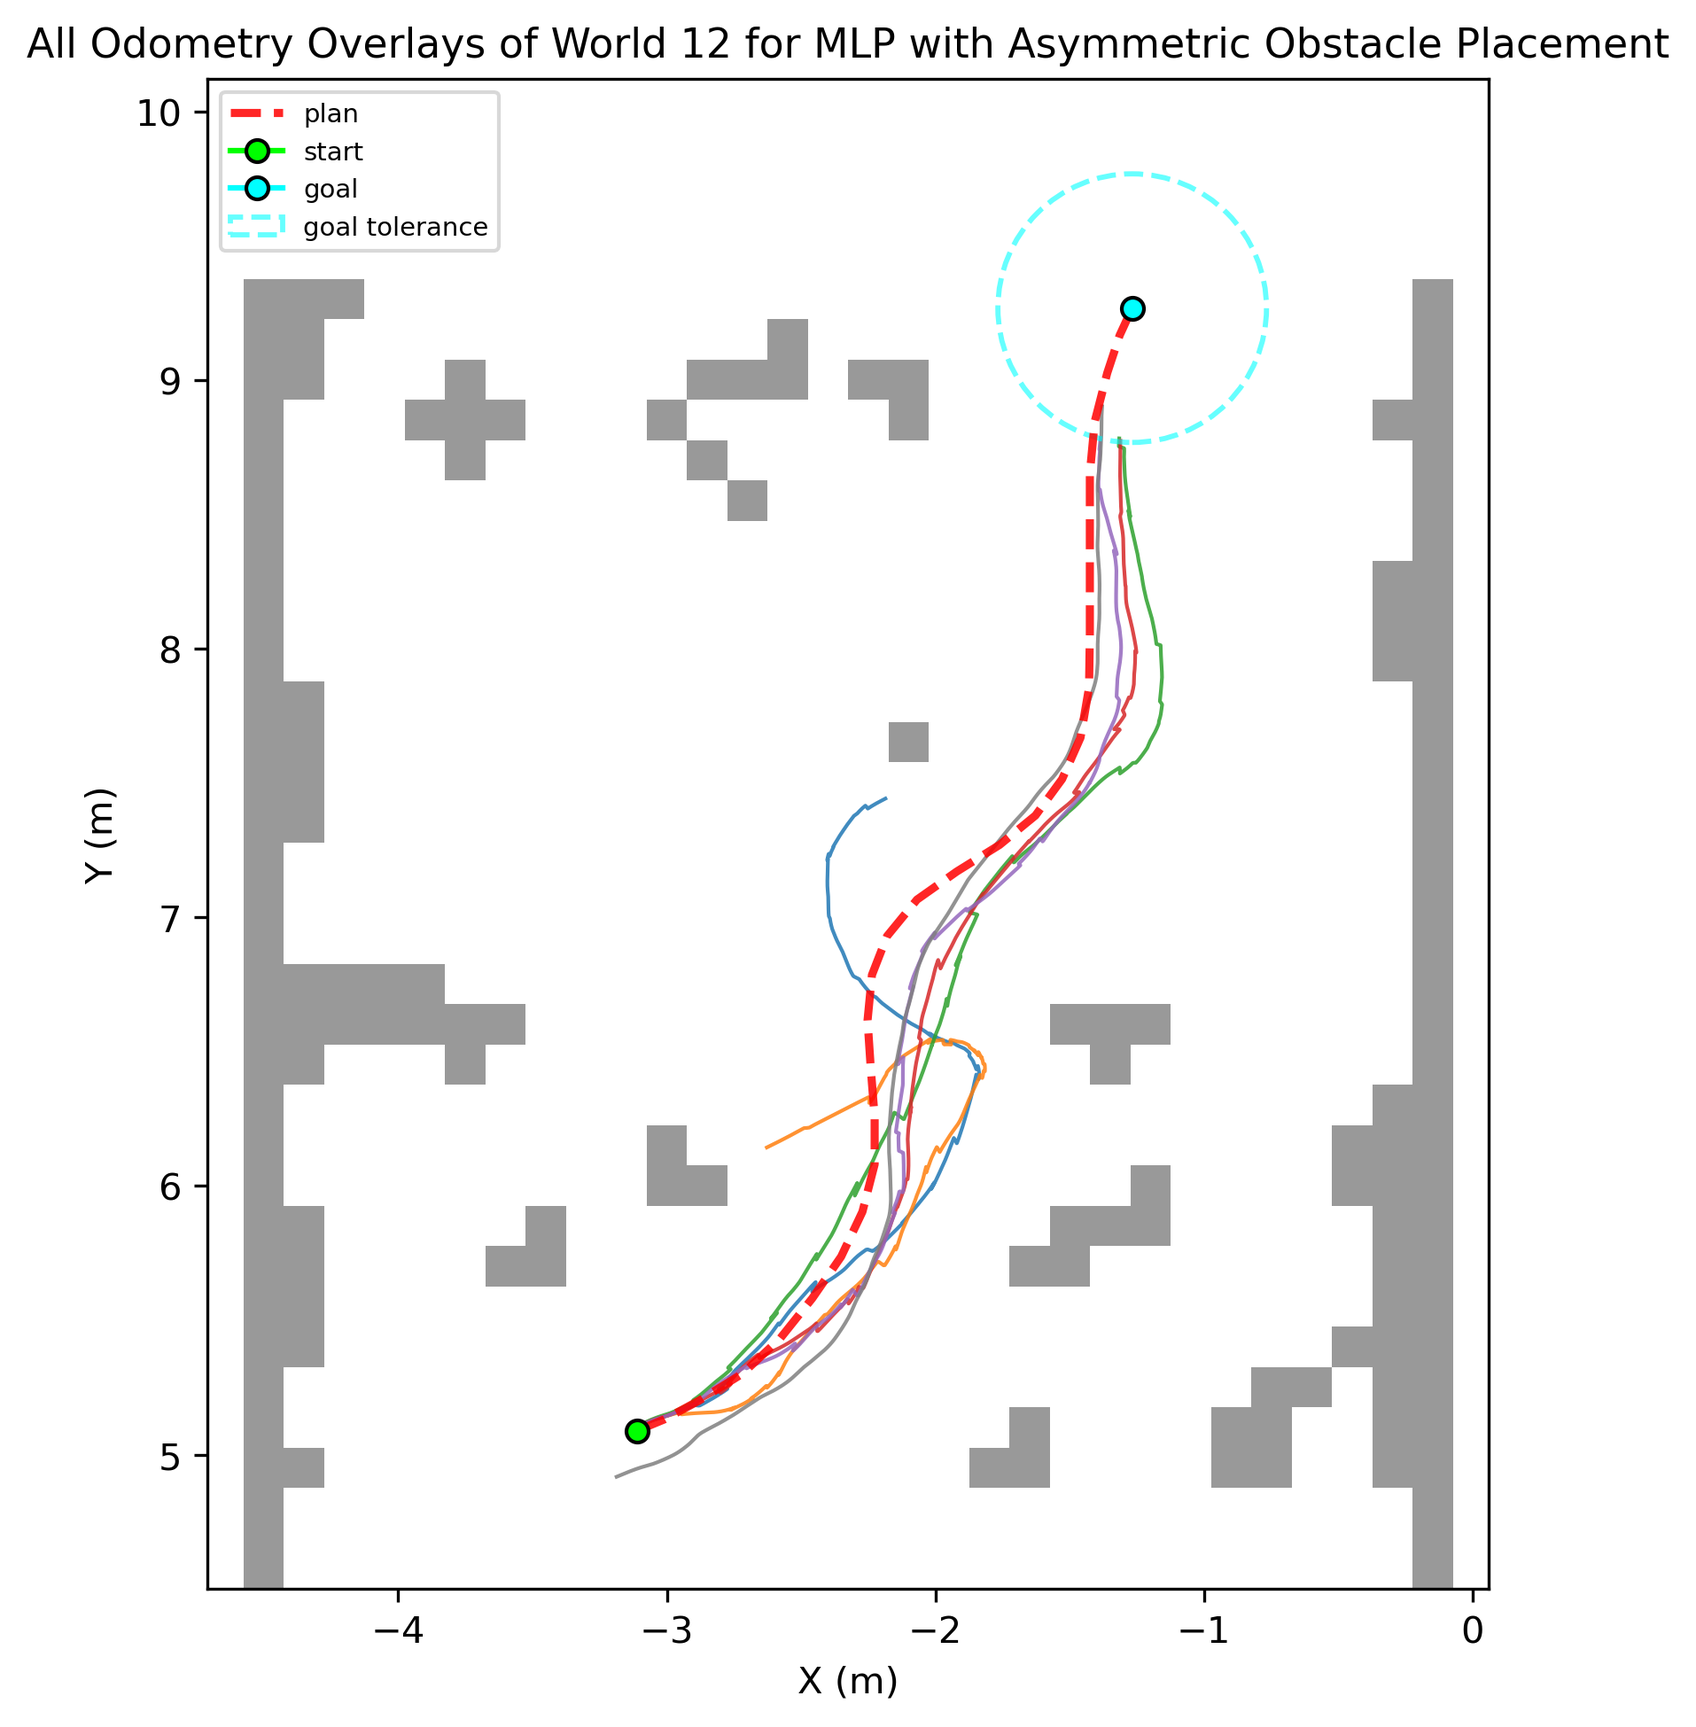
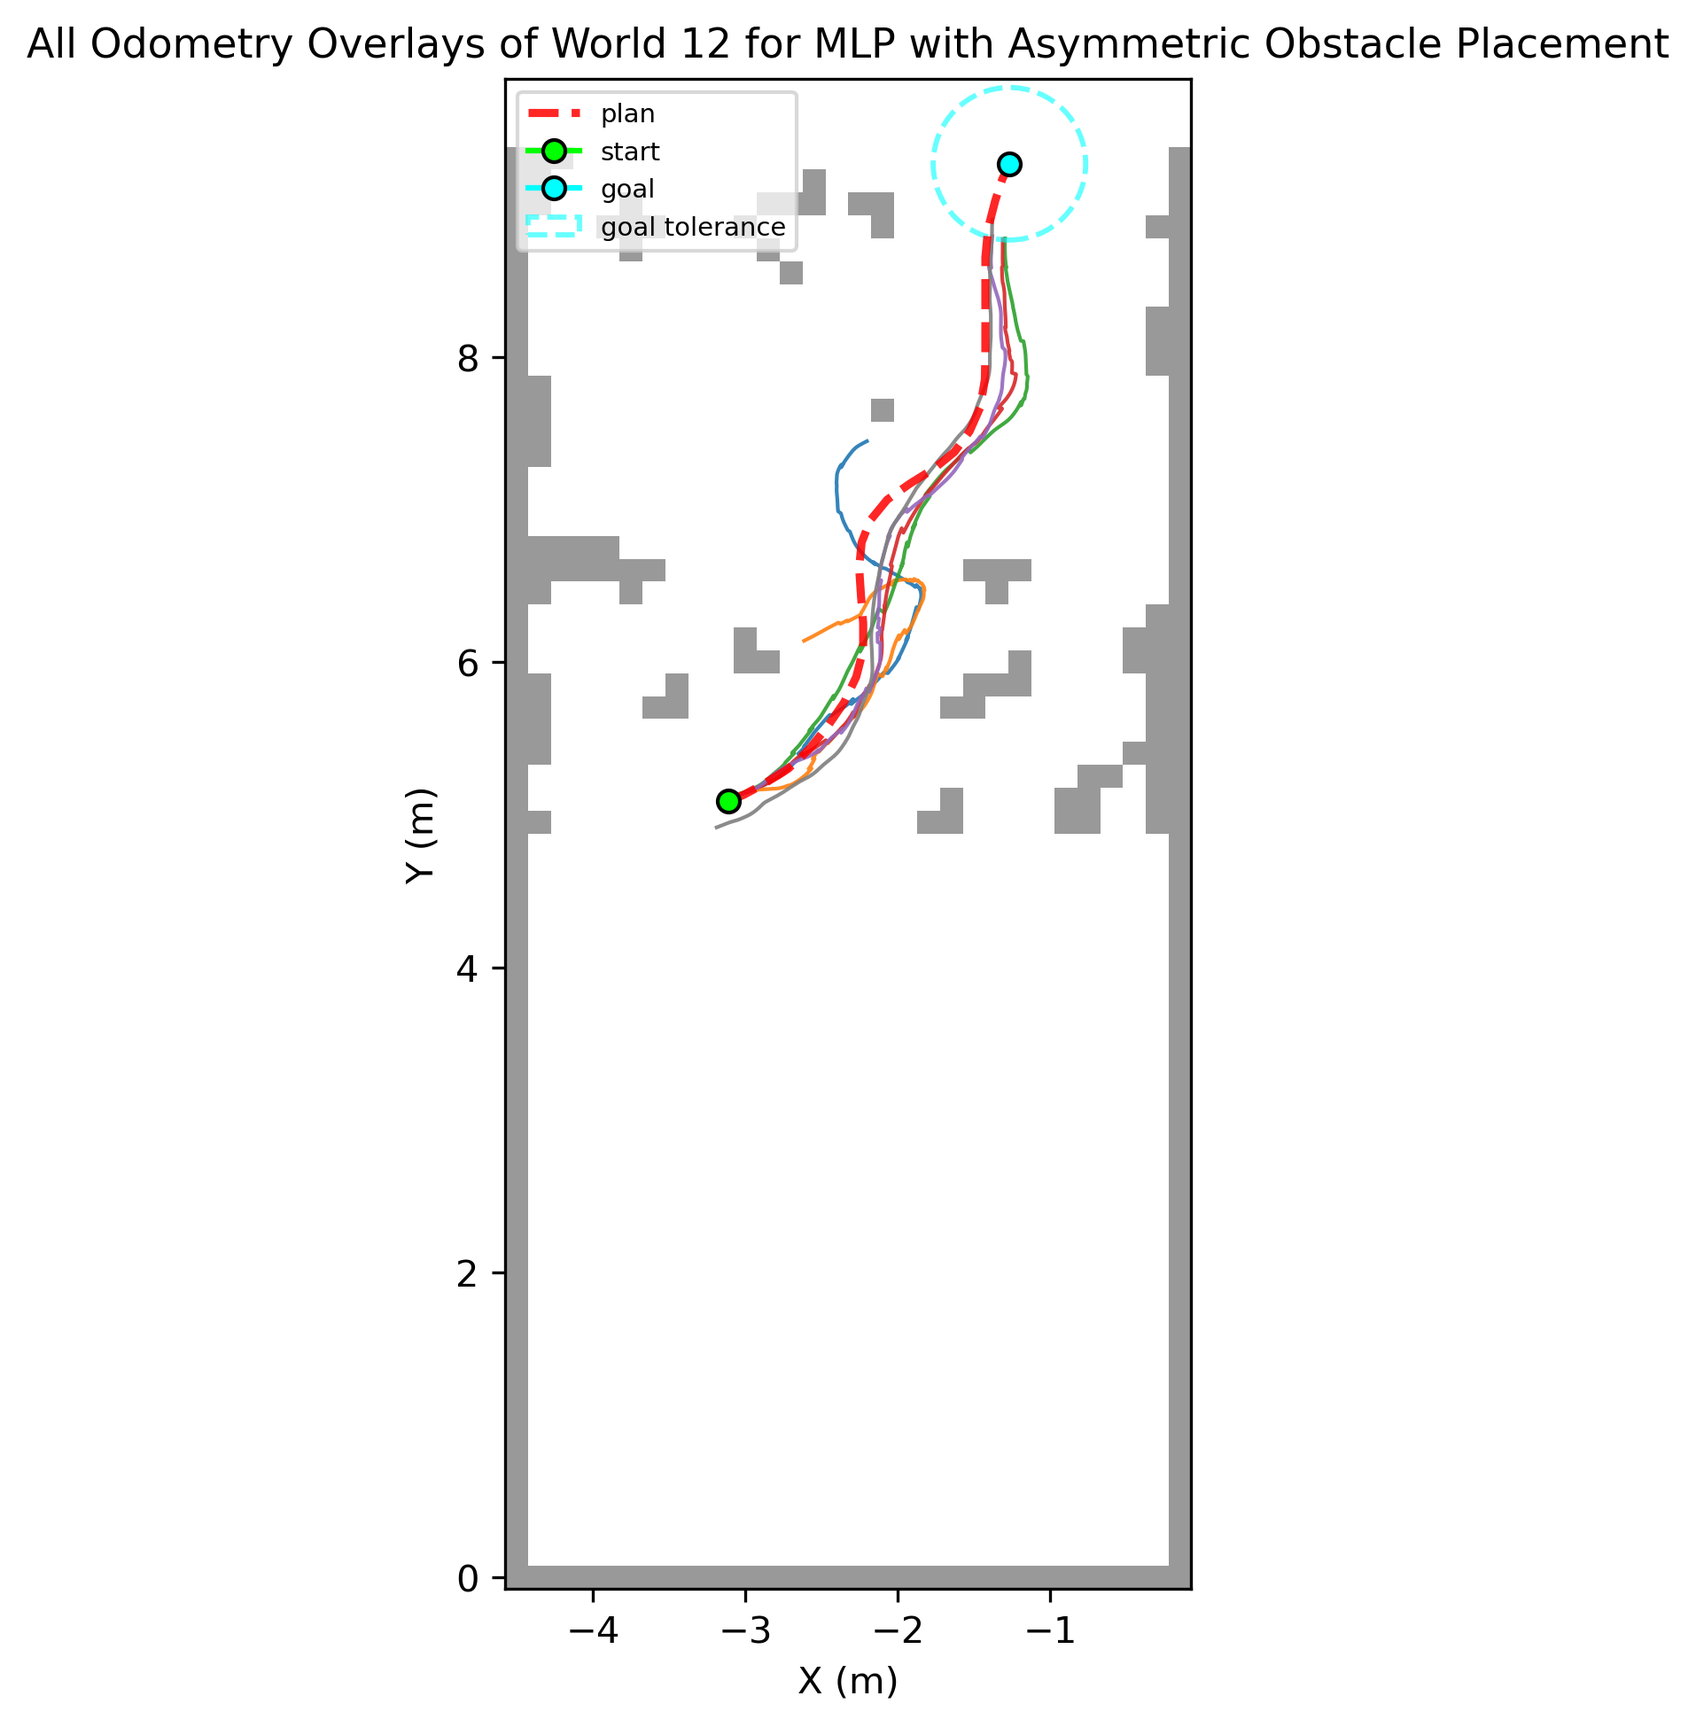
best plotting so far

diff --git a/plot_bag_overlay.py b/plot_bag_overlay.py
@@ -2,10 +2,24 @@
 #!/usr/bin/env python3
 # -*- coding: utf-8 -*-
 """
-Overlay trajectories from multiple rosbag2 runs.
-- Learn one constant map->odom TF per run (median), but prefer per-bag TF when available.
-- Choose one reference plan once (tries /plan_barn_odom, then /plan_barn).
-- Plot odom overlays + reference plan over the occupancy map (YAML->PGM).
+Overlay trajectories from multiple rosbag2 runs on a map, with robust TF handling.
+
+Key fixes vs. the original:
+- Uses *header* timestamps for /odom and TF (not the bag read time).
+- Interpolates yaw safely by unwrapping angles before interpolation.
+- Optional constant (median) map->odom TF per run for the smoothest overlays.
+
+CLI:
+  --bags <glob/dir>         : rosbag2 directories (with metadata.yaml)
+  --recursive               : discover nested bag dirs
+  --odom /odom              : odometry topic
+  --plan /plan_barn_odom    : reference plan topic (tries /plan_barn as fallback)
+  --map <map.yaml>          : map_server YAML to render
+  --tf-mode {auto,dynamic,constant}
+                             auto: prefer dynamic per-bag TF, fallback to constant
+                             dynamic: always use time-varying TF
+                             constant: always use one median map->odom TF
+  --downsample N            : sample every Nth odom message
 """
 
 import argparse, glob, math, os
@@ -30,7 +44,7 @@ from tf2_msgs.msg import TFMessage
 class Series:
     xs: List[float]
     ys: List[float]
-    ts: Optional[List[float]] = None  # seconds (for /odom timing if needed)
+    ts: Optional[List[float]] = None  # seconds (odom time base)
 
 # ------------------------- Map loading -------------------------
 
@@ -79,9 +93,10 @@ def _open_reader(bag_path: str, filter_topics: Optional[List[str]] = None) -> ro
 def _topic_types(reader) -> Dict[str, str]:
     return {t.name: t.type for t in reader.get_all_topics_and_types()}
 
-def _read_xy_from_odom(msg):  # nav_msgs/Odometry
+def _read_xy_t_from_odom(msg):  # nav_msgs/Odometry
     p = msg.pose.pose.position
-    return float(p.x), float(p.y)
+    t = float(msg.header.stamp.sec) + 1e-9 * float(msg.header.stamp.nanosec)
+    return float(p.x), float(p.y), t
 
 def _read_xy_from_pose(msg):  # geometry_msgs/PoseStamped
     p = msg.pose.position
@@ -94,7 +109,7 @@ def _extract_series_for_topics(bag_path: str, odom_topic: str, plan_topic: str) 
 
     des: Dict[str, Tuple[type, Callable]] = {}
     if odom_topic in types:
-        des[odom_topic] = (get_message(types[odom_topic]), _read_xy_from_odom)
+        des[odom_topic] = (get_message(types[odom_topic]), _read_xy_t_from_odom)
     if plan_topic in types:
         tname = types[plan_topic]
         if tname.endswith("/Path"):
@@ -112,14 +127,14 @@ def _extract_series_for_topics(bag_path: str, odom_topic: str, plan_topic: str) 
     needed = {t for t in (odom_topic, plan_topic) if t in des}
 
     while r.has_next():
-        topic, data, t_ns = r.read_next()
+        topic, data, _t_ns = r.read_next()
         if topic not in needed:
             continue
         mtype, fn = des[topic]
         msg = deserialize_message(data, mtype)
         if topic == odom_topic:
-            x, y = fn(msg)
-            od.xs.append(x); od.ys.append(y); od.ts.append(t_ns / 1e9)
+            x, y, t = fn(msg)
+            od.xs.append(x); od.ys.append(y); od.ts.append(t)
         else:
             out = fn(msg)
             if isinstance(out, list):
@@ -139,69 +154,81 @@ def _quat_to_yaw(x, y, z, w):
     return math.atan2(siny_cosp, cosy_cosp)
 
 def _collect_map_to_odom_series(bag_path, parent="map", child="odom"):
-    """Collect (t, tx, ty, yaw) samples from /tf_static and /tf."""
+    """Collect (t, tx, ty, yaw) samples from /tf_static and /tf, using *header* stamps."""
     r = _open_reader(bag_path, ["/tf_static", "/tf"])
     series = []
     while r.has_next():
-        topic, data, t_ns = r.read_next()
+        topic, data, _t_ns = r.read_next()
         if topic not in ("/tf_static", "/tf"):
             continue
         msg = deserialize_message(data, TFMessage)
-        t = t_ns / 1e9
         for tr in msg.transforms:
             if tr.header.frame_id == parent and (tr.child_frame_id == child or tr.child_frame_id.startswith(child)):
+                ts = tr.header.stamp
+                t = float(ts.sec) + 1e-9 * float(ts.nanosec)
                 yaw = _quat_to_yaw(tr.transform.rotation.x, tr.transform.rotation.y,
                                    tr.transform.rotation.z, tr.transform.rotation.w)
                 series.append((t, tr.transform.translation.x, tr.transform.translation.y, yaw))
     series.sort(key=lambda a: a[0])
+    # Remove duplicate timestamps by keeping the last occurrence
+    if series:
+        times = np.array([s[0] for s in series])
+        _, idx_last = np.unique(times, return_index=False, return_inverse=False, return_counts=False), None
+        # A simpler dedupe pass:
+        deduped = []
+        last_t = None
+        for s in series:
+            if last_t is None or s[0] != last_t:
+                deduped.append(s); last_t = s[0]
+            else:
+                deduped[-1] = s  # keep last duplicate
+        series = deduped
     return series
 
-def _interp_tf(series, t_query):
-    if not series: return 0, 0, 0
-    times = [s[0] for s in series]
-    idx = np.searchsorted(times, t_query)
-    if idx <= 0:  idx = 1
-    if idx >= len(series): idx = len(series) - 1
-    t0, tx0, ty0, yaw0 = series[idx-1]
-    t1, tx1, ty1, yaw1 = series[idx]
-    w = (t_query - t0) / max(1e-6, (t1 - t0))
-    tx = tx0 + w*(tx1 - tx0)
-    ty = ty0 + w*(ty1 - ty0)
-    yaw = yaw0 + w*(yaw1 - yaw0)
-    return tx, ty, yaw
-def _nearest_tf(series, t_query):
-    if not series: return None
-    # binary search nearest by time
-    lo, hi = 0, len(series)-1
-    while lo < hi:
-        mid = (lo+hi)//2
-        if series[mid][0] < t_query: lo = mid+1
-        else: hi = mid
-    idx = max(0, min(lo, len(series)-1))
-    if idx > 0 and abs(series[idx-1][0]-t_query) < abs(series[idx][0]-t_query):
-        idx -= 1
-    _, tx, ty, yaw = series[idx]
-    return tx, ty, yaw
-
-def _apply_SE2(xs, ys, tx, ty, yaw):
-    c, s = math.cos(yaw), math.sin(yaw)
-    xs2 = [tx + c * x - s * y for x, y in zip(xs, ys)]
-    ys2 = [ty + s * x + c * y for x, y in zip(xs, ys)]
-    return xs2, ys2
-
 def _unwrap(angles):
-    return np.unwrap(np.array(angles))
+    return np.unwrap(np.array(angles, dtype=float))
 
 def _median_tf_of_series(series):
     """Robust constant TF: median tx, ty, yaw (yaw unwrapped then rewrapped)."""
     if not series:
         return None
-    tx = np.median([s[1] for s in series])
-    ty = np.median([s[2] for s in series])
+    tx = float(np.median([s[1] for s in series]))
+    ty = float(np.median([s[2] for s in series]))
     yaw_un = _unwrap([s[3] for s in series])
     yaw = float(np.median(yaw_un))
     yaw = (yaw + math.pi) % (2 * math.pi) - math.pi
-    return {"tx": float(tx), "ty": float(ty), "yaw": yaw}
+    return {"tx": tx, "ty": ty, "yaw": yaw}
+
+def _apply_SE2_arrays(xs, ys, tx, ty, yaw):
+    """Vectorized SE(2) application when tx,ty,yaw are arrays matching xs/ys."""
+    xs = np.asarray(xs, dtype=float)
+    ys = np.asarray(ys, dtype=float)
+    tx = np.asarray(tx, dtype=float)
+    ty = np.asarray(ty, dtype=float)
+    yaw = np.asarray(yaw, dtype=float)
+    c = np.cos(yaw); s = np.sin(yaw)
+    x2 = tx + c * xs - s * ys
+    y2 = ty + s * xs + c * ys
+    return x2.tolist(), y2.tolist()
+
+def _interp_tf_to_times(series, t_query_array):
+    """Interpolate tx, ty, yaw (with unwrap) of TF series to query times."""
+    if not series:
+        z = np.zeros_like(t_query_array, dtype=float)
+        return z, z, z
+    times = np.array([s[0] for s in series], dtype=float)
+    txs   = np.array([s[1] for s in series], dtype=float)
+    tys   = np.array([s[2] for s in series], dtype=float)
+    yaws  = _unwrap([s[3] for s in series])
+
+    # clamp queries into range (extrapolate as boundary values)
+    tq = np.clip(np.asarray(t_query_array, dtype=float), times[0], times[-1])
+
+    txq = np.interp(tq, times, txs)
+    tyq = np.interp(tq, times, tys)
+    yawq = np.interp(tq, times, yaws)
+    yawq = (yawq + math.pi) % (2.0 * math.pi) - math.pi
+    return txq, tyq, yawq
 
 # ------------------------- Discovery -------------------------
 
@@ -245,13 +272,15 @@ def main():
     ap.add_argument("--map-vmax", type=float, default=1.0)
     ap.add_argument("--dpi", type=int, default=300)
 
-    # TF learning (once per run) + tiny trims
+    # TF options
     ap.add_argument("--tf-parent", default="map")
     ap.add_argument("--tf-child",  default="odom")
     ap.add_argument("--learn-from", type=int, default=5, help="Bags to sample when learning constant TF (median).")
     ap.add_argument("--tf-dx", type=float, default=0.0, help="Trim meters added to tx for cached TF fallback.")
     ap.add_argument("--tf-dy", type=float, default=0.0, help="Trim meters added to ty for cached TF fallback.")
     ap.add_argument("--tf-dyaw", type=float, default=0.0, help="Trim radians added to yaw for cached TF fallback.")
+    ap.add_argument("--tf-mode", choices=["auto", "dynamic", "constant"], default="constant",
+                    help="auto: prefer dynamic per-bag TF, fallback to constant; dynamic: force time-varying; constant: force median constant.")
 
     # Plan options
     ap.add_argument("--drop-first-plan-point", action="store_true",
@@ -283,7 +312,7 @@ def main():
         except Exception as e:
             print(f"[WARN] Could not render map '{args.map}': {e}")
 
-    # ----- Learn one constant TF (map->odom) once (for fallback only) -----
+    # ----- Learn one constant TF (map->odom) once (for fallback/constant mode) -----
     samples = []
     for bag in bag_dirs[: max(1, args.learn_from)]:
         samples.extend(_collect_map_to_odom_series(bag, args.tf_parent, args.tf_child))
@@ -292,9 +321,9 @@ def main():
         cached_tf["tx"]  += args.tf_dx
         cached_tf["ty"]  += args.tf_dy
         cached_tf["yaw"] += args.tf_dyaw
-        print(f"[TF-fallback] tx={cached_tf['tx']:.3f} ty={cached_tf['ty']:.3f} yaw={cached_tf['yaw']:.4f} rad")
+        print(f"[TF-constant] tx={cached_tf['tx']:.3f} ty={cached_tf['ty']:.3f} yaw={cached_tf['yaw']:.4f} rad")
     else:
-        print("[TF-fallback] none (no /tf samples found)")
+        print("[TF-constant] none (no /tf samples found)")
 
     # ----- Choose one reference plan once -----
     cached_plan: Optional[Series] = None
@@ -310,10 +339,9 @@ def main():
             cached_plan = plan_alt; chosen_topic = "/plan_barn"
             break
 
-    # if cached_plan and args.drop_first_plan_point and len(cached_plan.xs) > 1:
-    #     cached_plan = Series(cached_plan.xs[1:], cached_plan.ys[1:])
-
     if cached_plan:
+        if args.drop_first_plan_point and len(cached_plan.xs) > 1:
+            cached_plan = Series(cached_plan.xs[1:], cached_plan.ys[1:])
         print(f"[PLAN] Using '{chosen_topic}' with {len(cached_plan.xs)} poses as reference plan.")
     else:
         print("[PLAN] No plan found in any bag; continuing without a plan.")
@@ -329,37 +357,49 @@ def main():
             print(f"[WARN] Skipping {label}: {e}")
             continue
 
+        if not odom.xs:
+            print(f"[INFO] {label}: topic '{args.odom}' not found or had no data.")
+            continue
+
         if args.downsample > 1:
             odom = Series(odom.xs[::args.downsample], odom.ys[::args.downsample],
                           odom.ts[::args.downsample] if odom.ts else None)
 
-        # ---- Transform ODOM -> MAP: prefer per-bag TF; fallback to cached TF ----
-        used = None
-        if odom.xs:
-            tf_series = _collect_map_to_odom_series(bag, args.tf_parent, args.tf_child)
-            if tf_series:  # per-bag (best)
-                xs2, ys2 = [], []
-                for x, y, tsec in zip(odom.xs, odom.ys, odom.ts or [tf_series[0][0]]*len(odom.xs)):
-                    tx, ty, yaw = _interp_tf(tf_series, tsec)
-                    x2, y2 = _apply_SE2([x], [y], tx, ty, yaw)
-                    xs2.append(x2[0]); ys2.append(y2[0])
-                odom = Series(xs2, ys2, odom.ts); used = "per-bag TF"
-            elif cached_tf:  # fallback
+        # ---- Transform ODOM -> MAP according to tf-mode ----
+        tf_series = _collect_map_to_odom_series(bag, args.tf_parent, args.tf_child)
+        used = "raw odom"
+        if args.tf_mode == "constant":
+            if cached_tf:
                 tx, ty, yaw = cached_tf["tx"], cached_tf["ty"], cached_tf["yaw"]
-                ox, oy = _apply_SE2(odom.xs, odom.ys, tx, ty, yaw)
-                odom = Series(ox, oy, odom.ts); used = "cached TF"
+                ox, oy = _apply_SE2_arrays(odom.xs, odom.ys, tx, ty, yaw)
+                odom = Series(ox, oy, odom.ts); used = "constant TF"
             else:
-                used = "raw odom"
-            print(f"[TF] {label}: {used}")
+                print(f"[TF] {label}: no constant TF available; using raw odom.")
+        elif args.tf_mode == "dynamic":
+            if tf_series and odom.ts:
+                txq, tyq, yawq = _interp_tf_to_times(tf_series, odom.ts)
+                ox, oy = _apply_SE2_arrays(odom.xs, odom.ys, txq, tyq, yawq)
+                odom = Series(ox, oy, odom.ts); used = "per-bag dynamic TF"
+            else:
+                print(f"[TF] {label}: missing TF or timestamps for dynamic; using raw odom.")
+        else:  # auto
+            if tf_series and odom.ts:
+                txq, tyq, yawq = _interp_tf_to_times(tf_series, odom.ts)
+                ox, oy = _apply_SE2_arrays(odom.xs, odom.ys, txq, tyq, yawq)
+                odom = Series(ox, oy, odom.ts); used = "per-bag dynamic TF"
+            elif cached_tf:
+                tx, ty, yaw = cached_tf["tx"], cached_tf["ty"], cached_tf["yaw"]
+                ox, oy = _apply_SE2_arrays(odom.xs, odom.ys, tx, ty, yaw)
+                odom = Series(ox, oy, odom.ts); used = "constant TF"
+            # else leave as raw odom
 
-        # plot odom
-        if odom.xs:
-            ax.plot(odom.xs, odom.ys, linewidth=1.0, alpha=0.85, zorder=2)
-            legend_labels.append(f"{label} (odom)")
-        else:
-            print(f"[INFO] {label}: topic '{args.odom}' not found or had no data.")
+        print(f"[TF] {label}: {used}")
 
-    # plot reference plan once
+        # plot odom (now in map frame if TF applied)
+        ax.plot(odom.xs, odom.ys, linewidth=1.0, alpha=0.9, zorder=2)
+        legend_labels.append(f"{label}")
+
+    # ----- Plot reference plan once (optional) -----
     if cached_plan and cached_plan.xs:
         ax.plot(cached_plan.xs, cached_plan.ys, linestyle="--", linewidth=2.2,
                 color="red", alpha=0.85, zorder=6, label="plan")
@@ -374,7 +414,7 @@ def main():
                           linewidth=1.4, edgecolor='cyan', alpha=0.6, zorder=5, label="goal tolerance")
         ax.add_patch(goal_tol)
 
-    # axes cosmetics
+    # ----- Axes cosmetics -----
     ax.set_xlabel("X (m)")
     ax.set_ylabel("Y (m)")
     ax.set_aspect("equal", adjustable="box")
@@ -382,31 +422,7 @@ def main():
     if legend_labels or (cached_plan and cached_plan.xs):
         ax.legend(fontsize=7, loc="upper left", ncol=1, framealpha=0.75)
 
-    # Union limits so nothing is clipped (map + paths)
-    xs_all, ys_all = [], []
-    for line in ax.get_lines():
-        x = line.get_xdata(orig=False); y = line.get_ydata(orig=False)
-        if len(x): xs_all.extend(x)
-        if len(y): ys_all.extend(y)
-    if xs_all and ys_all:
-        xmin, xmax = min(xs_all), max(xs_all)
-        ymin, ymax = min(ys_all), max(ys_all)
-        if map_extent:
-            xmin = min(xmin, map_extent[0]); xmax = max(xmax, map_extent[1])
-            ymin = min(ymin, map_extent[2]); ymax = max(ymax, map_extent[3])
-        pad_x = 0.03 * (xmax - xmin if xmax > xmin else 1.0)
-        pad_y = 0.03 * (ymax - ymin if ymax > ymin else 1.0)
-        ax.set_xlim(xmin - pad_x, xmax + pad_x)
-        ax.set_ylim(ymin - pad_y, ymax + pad_y)
-    elif map_extent:
-        ax.set_xlim(map_extent[0], map_extent[1])
-        ax.set_ylim(map_extent[2], map_extent[3])
-
-    ax.set_ylim(bottom=4.5)
-    # You can crop here if desired, e.g.:
-    # ax.set_ylim(bottom=5.0)
-
-    title = args.title or f"Overlays • odom: {args.odom} • ref plan"
+    title = args.title or f"Overlays • odom: {args.odom} • tf-mode: {args.tf_mode}"
     ax.set_title(title, fontsize=11)
 
     plt.tight_layout()

diff --git a/overlay_all_bags.py b/overlay_all_bags.py
@@ -52,3 +52,4 @@ for directory in result_list:
         ]
         print(cmd)
         subprocess.run(cmd)
+        sys.exit(1)
